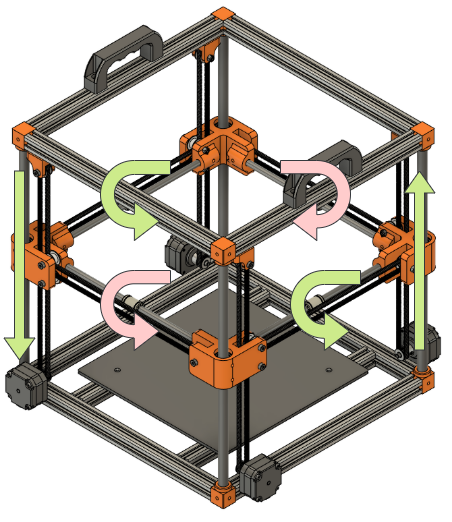
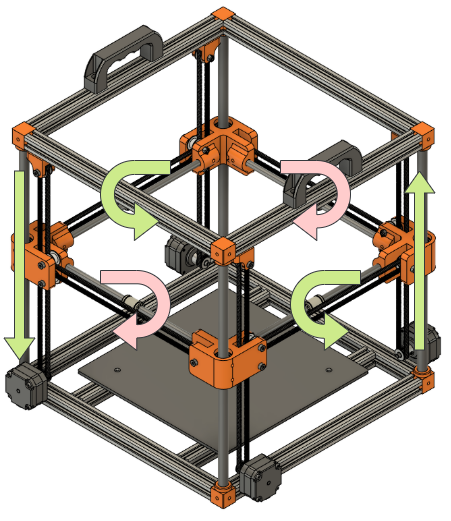
Update vertical torque diagram and add note

Changed region(s): [[0.0, 0.0, 0.9933, 0.9827], [0.0, 0.6449, 0.031, 0.6756]]

diff --git a/README.md b/README.md
@@ -58,6 +58,8 @@ The direction of the net torque depends on which side of the horizontal belt the
 
 Horizontal motion in one axis operates via cancellation across opposite pairs of vertical carriages, which results in a torque around the other horizontal axis. This torque is applied through the cross-gantry pieces, and since their carriages are rigid attachment points, and belt loops provide good static tension, net torque is significantly reduced.
 
+This is difficult to represent visually but the following diagram may help.
+
 ![verticaltorquecancel](VerticalTorqueCancel.png)
 
 ### Belt-Driven
